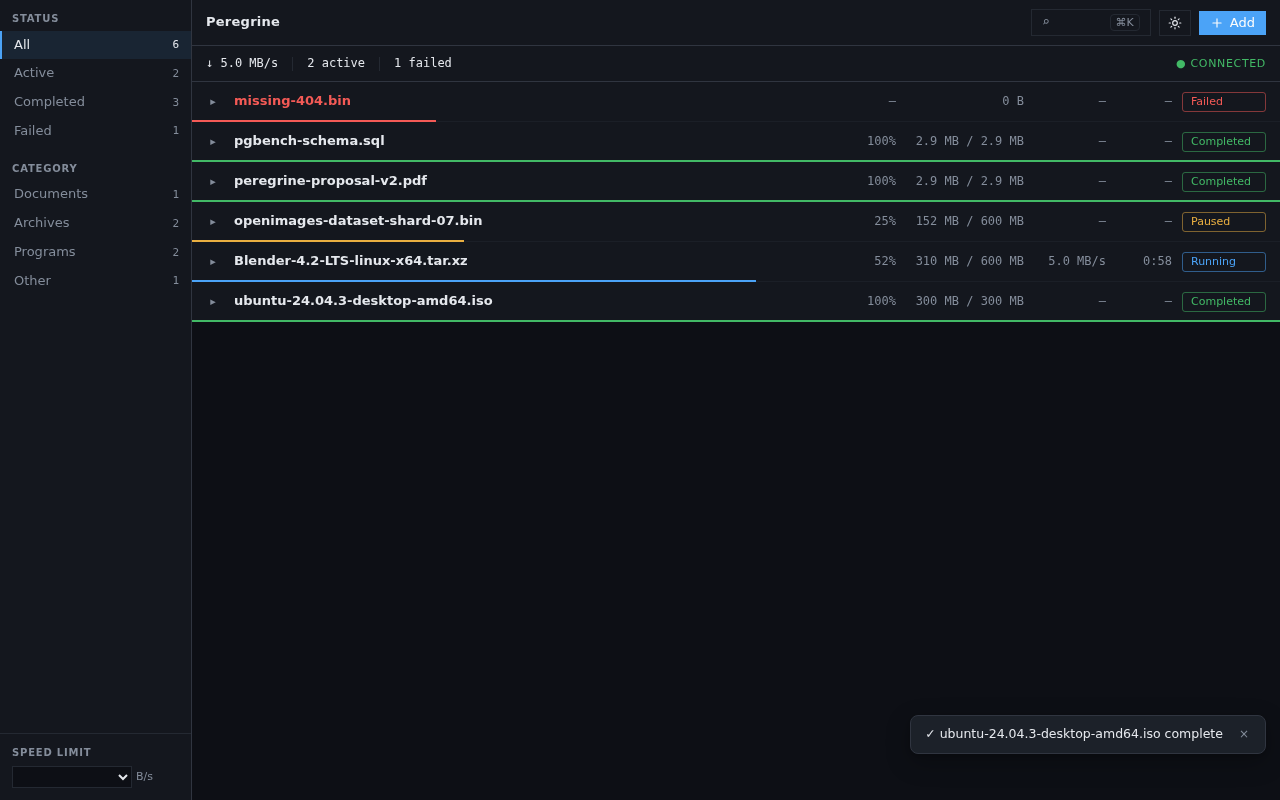
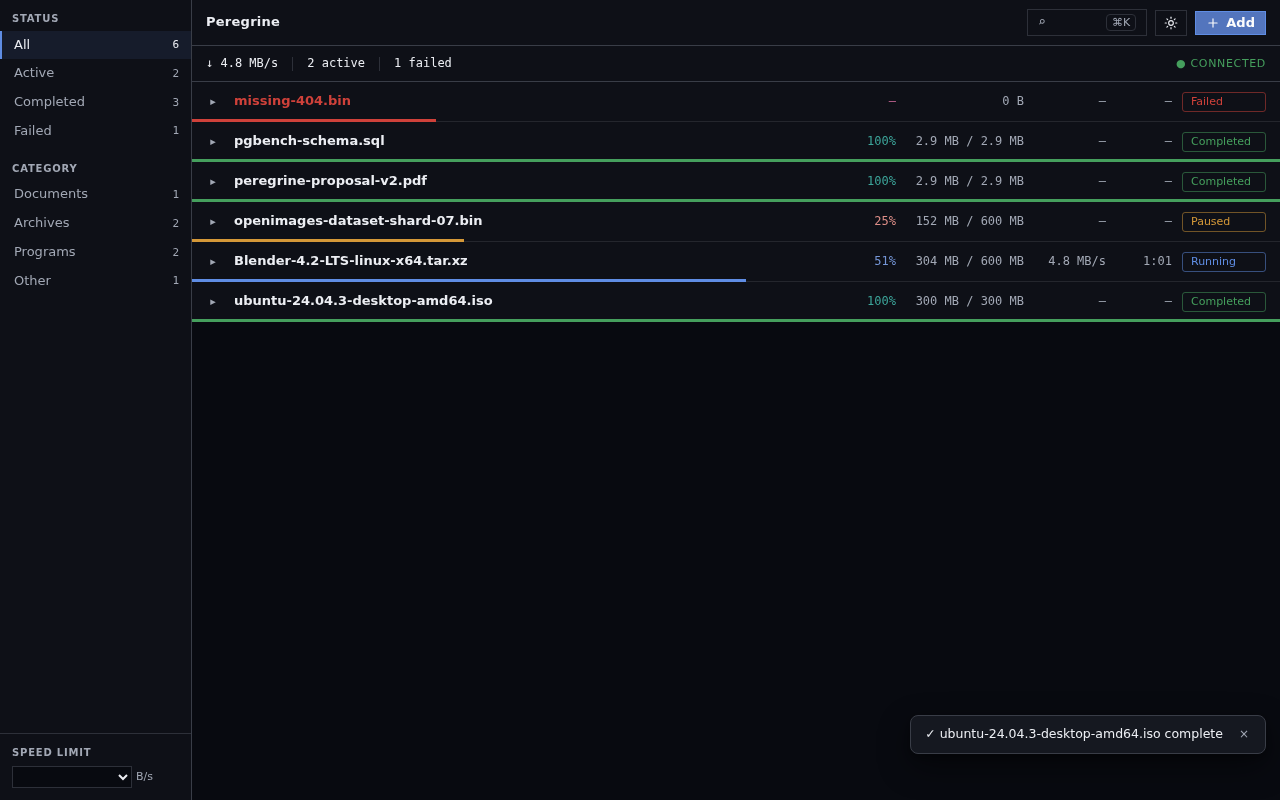
style(desktop): V3 palette — VLM-audited reskin of the V2 tokens
用户判 V2 '挺丑' → MiniMax VLM 对比诊断 Motrix：灰阶坍塌(bg≈elevated
1.1:1)、状态色过饱和×16 pill、dim 2.1:1。三招修复：
- 背景两层拉开 (#0F0F1A class, gap ≥5L) + 线阶提亮
- 状态色降饱和 (#16A34A/#2563EB/#DC2626 class)
- dim 64%→73%, 进度线 2→3px, pct 列状态着色成为扫视锚点,
  Toast 投影加深悬浮感, Add 按钮降亮留一处强调
VLM 评分: V2 6.0 → V3 8.0 → V3.1 8.5 (可直接上 README)
截图全量重拍 (混态 running/paused/completed/failed)

diff --git a/apps/desktop/src/app.css b/apps/desktop/src/app.css
@@ -10,24 +10,29 @@
 
 :root {
   color-scheme: dark;
+  /* V3 palette (VLM-audited): fix the three things that made V2
+   * look "ugly" — collapsed gray ramp (bg≈elevated), over-saturated
+   * status colors × 16 pills, and dim text at 2.1:1. Follows
+   * Motrix-class dark UI: two-layer background with a visible gap,
+   * desaturated statuses (#16A34A / #2563EB / #DC2626 class). */
   /* surfaces (3-step elevation ladder) */
-  --bg: oklch(17% 0.012 262);
-  --panel: oklch(20.5% 0.014 262);
-  --elevated: oklch(24.5% 0.017 262);
+  --bg: oklch(14.5% 0.014 270); /* deeper, slight violet lean (#0F0F1A class) */
+  --panel: oklch(17.5% 0.015 270);
+  --elevated: oklch(21% 0.017 270); /* visible float above bg, not a twin */
   /* text */
-  --text: oklch(93% 0.008 262);
-  --dim: oklch(64% 0.024 262);
+  --text: oklch(95% 0.007 270);
+  --dim: oklch(73% 0.02 268);
   /* border hierarchy: strong=region, default=control, subtle=row */
-  --line-strong: oklch(33% 0.02 264);
-  --line: oklch(28% 0.018 264);
-  --line-subtle: oklch(24% 0.015 263);
-  /* semantic — the ONLY colors allowed on screen */
-  --accent: oklch(70% 0.15 250);
-  --ok: oklch(70% 0.16 150);
-  --warn: oklch(79% 0.14 80);
-  --err: oklch(67% 0.19 25);
+  --line-strong: oklch(36% 0.018 270);
+  --line: oklch(31% 0.016 270);
+  --line-subtle: oklch(27% 0.014 270);
+  /* semantic — desaturated so 16 status pills don't scream */
+  --accent: oklch(65% 0.14 262);
+  --ok: oklch(63% 0.13 150);
+  --warn: oklch(72% 0.13 75);
+  --err: oklch(58% 0.18 27);
   /* floating overlay scrim */
-  --scrim: oklch(10% 0.01 262 / 0.6);
+  --scrim: oklch(10% 0.014 270 / 0.65);
 }
 
 :root[data-theme='light'] {
@@ -40,10 +45,10 @@
   --line-strong: oklch(82% 0.01 262);
   --line: oklch(89% 0.005 262);
   --line-subtle: oklch(93% 0.004 262);
-  --accent: oklch(58% 0.16 250);
-  --ok: oklch(56% 0.16 150);
-  --warn: oklch(62% 0.14 75);
-  --err: oklch(55% 0.2 25);
+  --accent: oklch(56% 0.14 262);
+  --ok: oklch(56% 0.13 150);
+  --warn: oklch(64% 0.12 75);
+  --err: oklch(55% 0.17 25);
   --scrim: oklch(20% 0.01 262 / 0.4);
 }
 
@@ -139,13 +144,15 @@
     background: var(--elevated);
   }
   .ctl.primary {
-    background: var(--accent);
+    /* one saturated accent on screen is enough — VLM V3 note:
+     * keep the primary button calm, let it win on weight not color */
+    background: color-mix(in oklch, var(--accent) 82%, var(--elevated));
     border-color: var(--accent);
     color: oklch(99% 0 0);
-    font-weight: 500;
+    font-weight: 600;
   }
   .ctl.primary:hover {
-    background: color-mix(in oklch, var(--accent) 88%, white);
+    background: var(--accent);
   }
   .ctl.danger:hover {
     border-color: var(--err);

diff --git a/apps/desktop/src/lib/TaskRow.svelte b/apps/desktop/src/lib/TaskRow.svelte
@@ -234,6 +234,22 @@
   .row.selected .col {
     color: var(--text);
   }
+  /* pct carries the row's status tint — the number itself becomes
+   * the scan anchor (VLM V3 note), dimmer than the chip so the chip
+   * still wins on priority */
+  .col.pct {
+    color: color-mix(in oklch, var(--accent) 70%, var(--dim));
+    font-weight: 500;
+  }
+  .row[data-status='completed'] .col.pct {
+    color: color-mix(in oklch, var(--ok) 70%, var(--dim));
+  }
+  .row[data-status='paused'] .col.pct {
+    color: color-mix(in oklch, var(--warn) 70%, var(--dim));
+  }
+  .row[data-status='failed'] .col.pct {
+    color: color-mix(in oklch, var(--err) 70%, var(--dim));
+  }
   /* hover action cluster — fades over the tail columns */
   .cluster {
     position: absolute;
@@ -261,13 +277,14 @@
     padding: 4px 7px;
     line-height: 0;
   }
-  /* 2px progress underline */
+  /* 3px progress underline (VLM: 2px was too light to scan —
+   * the eye needs an anchor that says "downloading here") */
   .line {
     position: absolute;
     left: 0;
     right: 0;
     bottom: -1px; /* overlap the row border — the line IS the border while active */
-    height: 2px;
+    height: 3px;
     background: transparent;
     pointer-events: none;
   }

diff --git a/apps/desktop/src/lib/Toasts.svelte b/apps/desktop/src/lib/Toasts.svelte
@@ -41,9 +41,11 @@
     background: var(--elevated);
     border: 1px solid var(--line-strong);
     border-radius: 8px;
+    /* VLM V3 note: must read as floating ABOVE the list, not part of
+     * it — stronger shadow + darker translucent lift */
     box-shadow:
-      0 8px 24px rgb(0 0 0 / 0.25),
-      0 2px 6px rgb(0 0 0 / 0.2);
+      0 12px 32px rgb(0 0 0 / 0.45),
+      0 3px 8px rgb(0 0 0 / 0.3);
     font-size: 12.5px;
     color: var(--text);
     animation: toast-in var(--dur, 200ms) var(--ease, ease-out);
